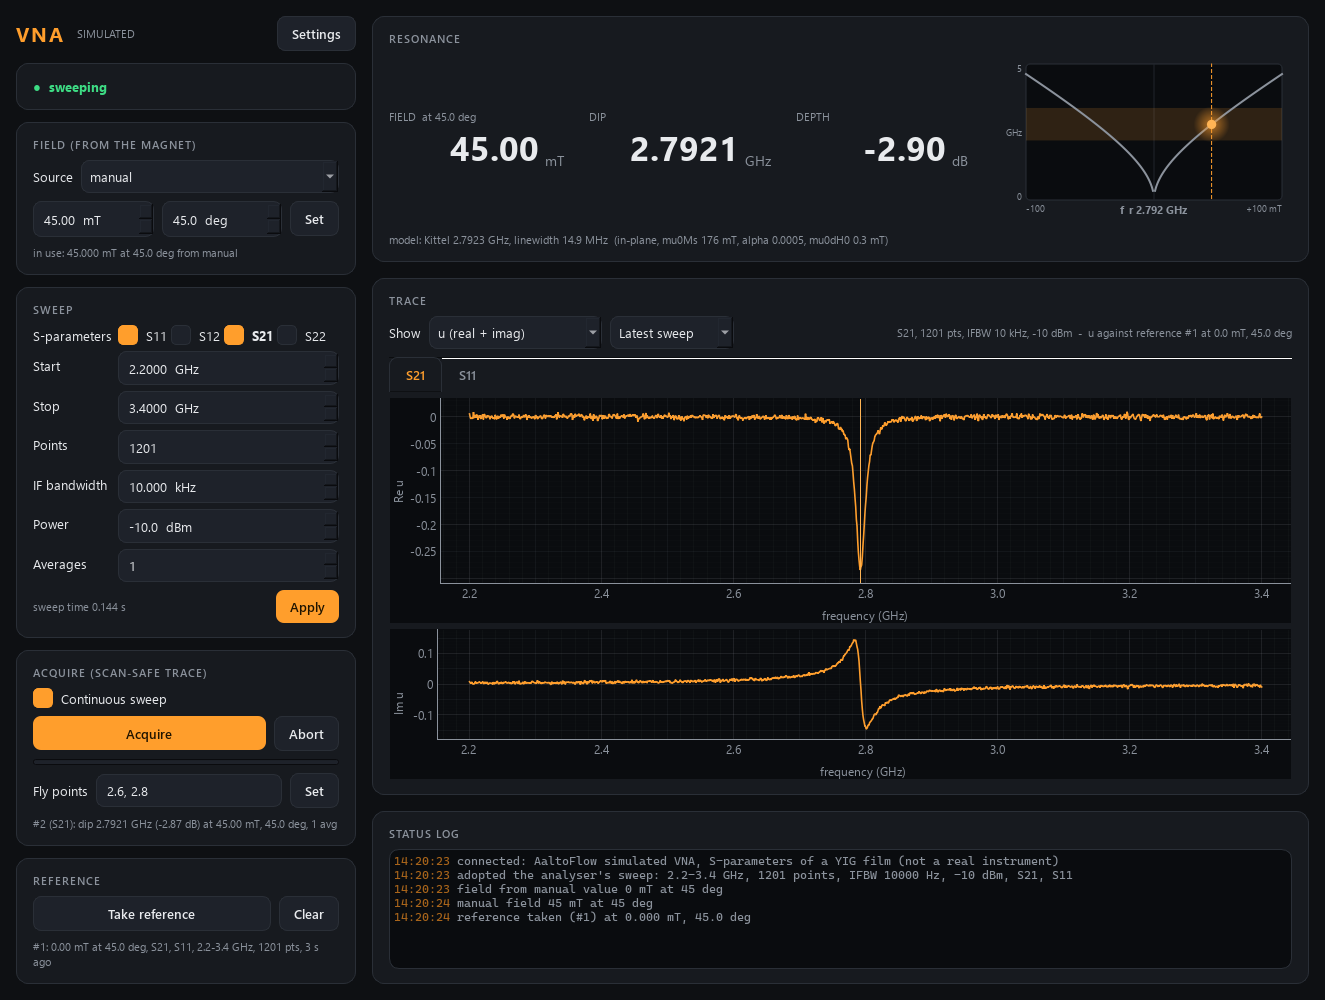
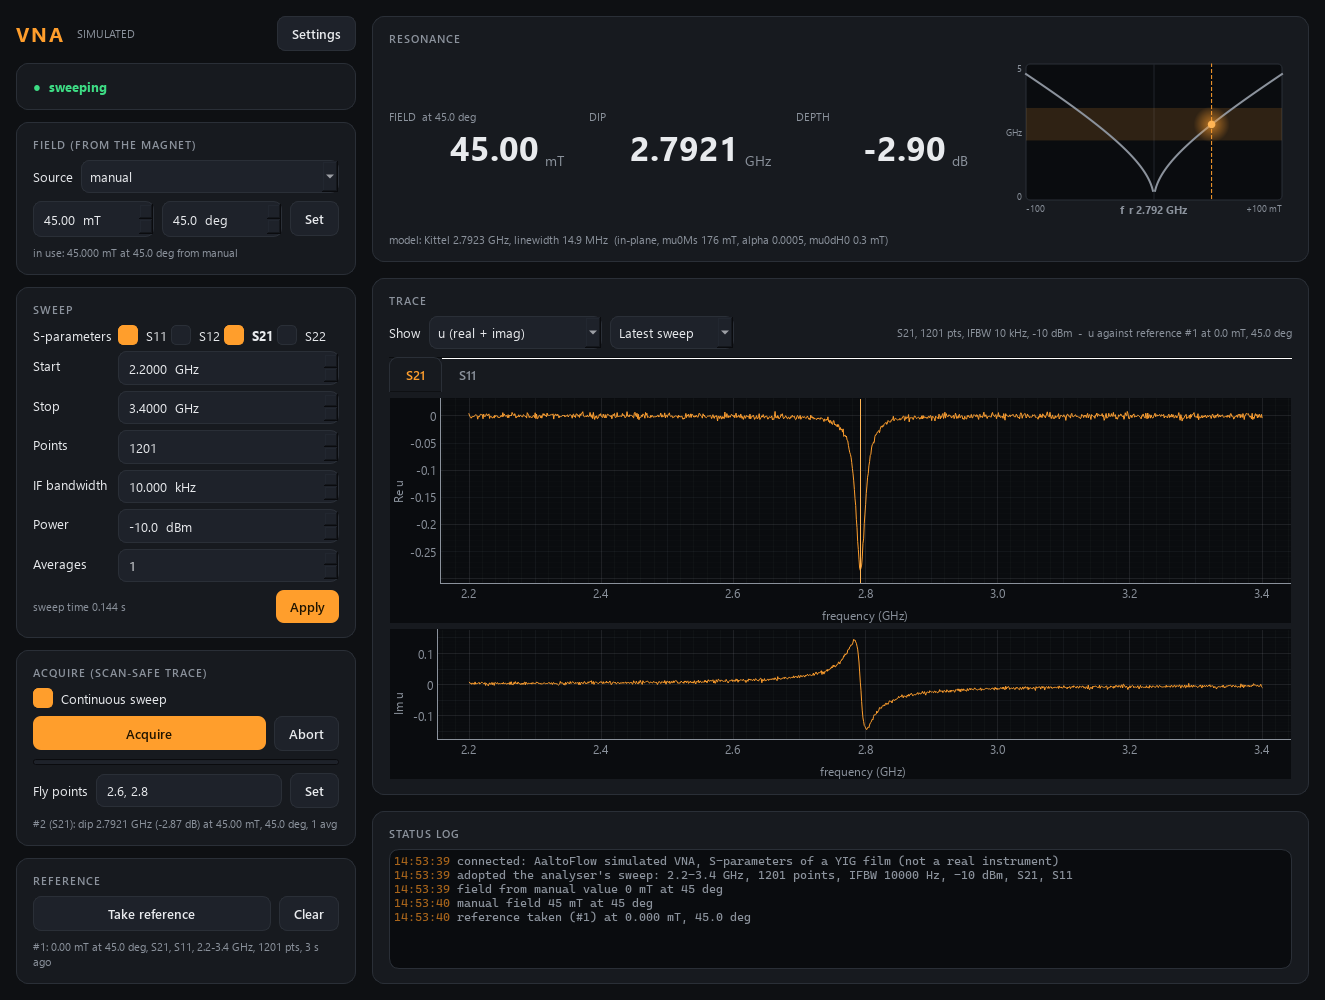
vna GUI: trace pen width 1 -- the 1.6 px antialiased pen made a repaint take ~2 s
Blue Box profile (S5085, 491bb74): switching to the S21 tab still took
~2.3 s, and no get_trace was involved. cProfile: 4.4 of 5.4 s in
QPainter.drawPath, ~100 ms per call. An antialiased pen wider than 1 px
leaves Qt's fast cosmetic path, and S21 at the noise floor (a dense
zigzag, phase jumping +-180 deg across the plot) is its worst case.
Measured there: 70-100 ms per switch with width 1 and antialiasing kept.
Front panel re-rendered.

diff --git a/modules/detector/vna-control/src/vna/apps/gui.py b/modules/detector/vna-control/src/vna/apps/gui.py
@@ -222,7 +222,11 @@ def _make_plot(name, unit):
     w.setLabel("left", name, units=unit)
     w.setLabel("bottom", "frequency", units="GHz")
     w.showGrid(x=True, y=True, alpha=0.15)
-    curve = w.plot([], [], pen=pg.mkPen(COLORS["accent"], width=1.6))
+    # Pen width 1, not more: an ANTIALIASED pen wider than 1 px leaves Qt's
+    # fast cosmetic path, and a noisy trace (S21 with nothing between the
+    # ports, its phase jumping +-180 deg) took ~2.3 s per repaint on the Blue
+    # Box (100 ms per QPainter.drawPath); at width 1 it is 70-100 ms.
+    curve = w.plot([], [], pen=pg.mkPen(COLORS["accent"], width=1))
     # No auto-downsampling / clip-to-view: they size themselves from the
     # widget, and a tab that was never shown has none -- its trace would be
     # cut to a point. A few thousand points draw fast without them.
